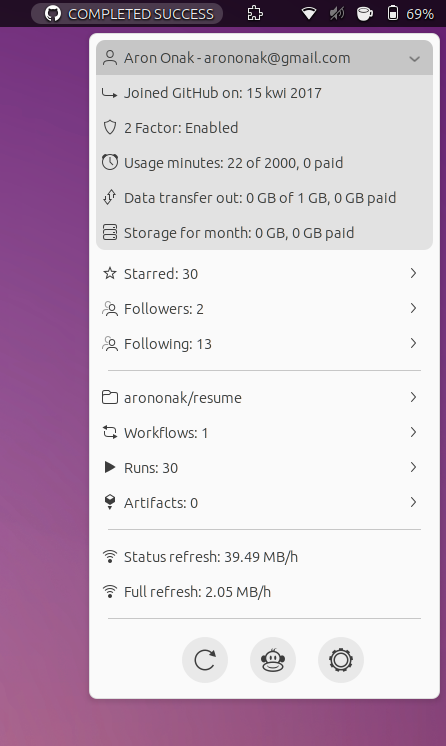
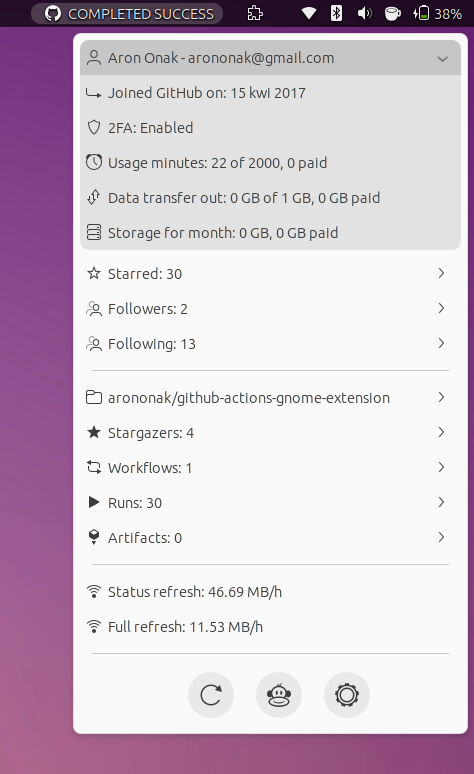
Added repo stargazers section

diff --git a/github-actions@arononak.github.io/extension.js b/github-actions@arononak.github.io/extension.js
@@ -58,6 +58,7 @@ async function coldRefresh(settings, indicator) {
         const following = await dataRepository.fetchUserFollowing();
         const workflows = await dataRepository.fetchWorkflows(owner, repo);
         const artifacts = await dataRepository.fetchArtifacts(owner, repo);
+        const stargazers = await dataRepository.fetchStargazers(owner, repo);
 
         const allDataObjects = [
             user,
@@ -69,7 +70,8 @@ async function coldRefresh(settings, indicator) {
             followers,
             following,
             workflows,
-            artifacts
+            artifacts,
+            stargazers
         ];
 
         const sizeInBytes = allDataObjects.reduce((sum, object) => sum + object._size_, 0);
@@ -83,6 +85,7 @@ async function coldRefresh(settings, indicator) {
         indicator.setUserFollowing(following);
         indicator.setWorkflows(workflows['workflows']);
         indicator.setArtifacts(artifacts['artifacts']);
+        indicator.setStargazers(stargazers);
     } catch (error) {
         logError(error);
     }
@@ -234,6 +237,19 @@ const Indicator = GObject.registerClass(
             /// Info
             this.infoItem = this.createPopupImageMenuItem(loadingText, 'object-flip-vertical-symbolic', () => utils.openUrl(this.workflowUrl));
             this.repositoryMenuBox.add_actor(this.infoItem);
+
+            /// Stargazers
+            this.stargazersMenuBox = new St.BoxLayout({ vertical: true, style_class: 'menu-box' });
+            this.stargazersScrollView = new St.ScrollView({ y_align: Clutter.ActorAlign.START, y_expand: true, overlay_scrollbars: true });
+            this.stargazersScrollView.add_actor(this.stargazersMenuBox);
+            this.stargazersMenuItem = new PopupMenu.PopupSubMenuMenuItem('');
+            this.stargazersMenuItem.menu.box.add_actor(this.stargazersScrollView);
+            this.stargazersIconContainer = new St.Widget({ style_class: 'popup-menu-icon-container' });
+            this.stargazersIconContainer.add_child(new St.Icon({ icon_name: 'starred-symbolic', style_class: 'popup-menu-icon' }));
+            this.stargazersMenuItem.insert_child_at_index(this.stargazersIconContainer, 0);
+            this.stargazersLabel = new St.Label({ text: loadingText });
+            this.stargazersMenuItem.insert_child_at_index(this.stargazersLabel, 1);
+            this.menu.addMenuItem(this.stargazersMenuItem);
 
             /// Workflows
             this.workflowsMenuBox = new St.BoxLayout({ vertical: true, style_class: 'menu-box' });
@@ -405,6 +421,17 @@ const Indicator = GObject.registerClass(
                 const name = element['name'] + ' - ' + date + ' - (' + utils.bytesToString(element['size_in_bytes']) + ')';
                 const item = new PopupMenu.PopupImageMenuItem(name, 'insert-object-symbolic');
                 this.artifactsMenuBox.add_actor(item);
+            });
+        }
+
+        setStargazers(stargazers) {
+            this.stargazersMenuBox.remove_all_children();
+            this.stargazersLabel.text = 'Stargazers: ' + stargazers.length;
+
+            stargazers.forEach((element) => {
+                const item = new PopupMenu.PopupImageMenuItem(element['login'], 'starred-symbolic');
+                item.connect('activate', () => utils.openUrl(element['html_url']));
+                this.stargazersMenuBox.add_actor(item);
             });
         }
 

diff --git a/github-actions@arononak.github.io/data_repository.js b/github-actions@arononak.github.io/data_repository.js
@@ -36,3 +36,6 @@ var fetchWorkflowRuns = async (owner, repo) =>
 
 var fetchArtifacts = async (owner, repo) =>
     repository.executeGithubCliCommand('/repos/' + owner + '/' + repo + '/actions/artifacts');
+
+var fetchStargazers = async (owner, repo) =>
+    repository.executeGithubCliCommand('/repos/' + owner + '/' + repo + '/stargazers');
